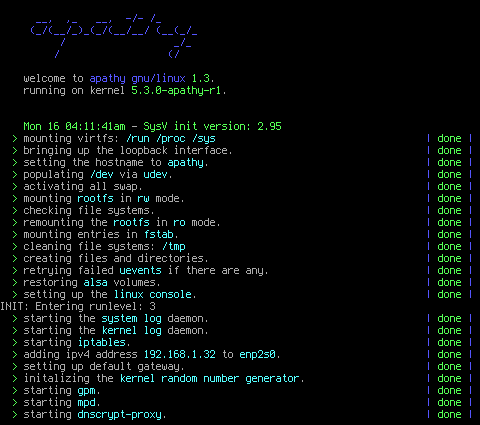
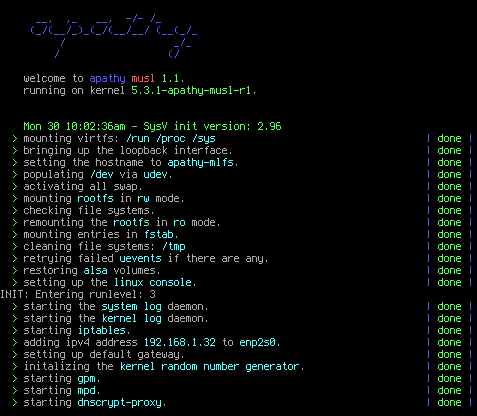
upd: replace assets and readme with apathy-musl.

Changed region(s): [[0.0, 0.2812, 0.6164, 1.0], [0.8805, 0.3125, 0.9979, 1.0], [0.0294, 0.0312, 0.4696, 0.25]]

diff --git a/README.md b/README.md
@@ -1,66 +1,49 @@
-## apathy gnu/linux 1.3
-apathy *(formerly known as mssLinux)* is a pure 64 bit gnu+linux distribution aiming to be minimalistic while not crippling the user's ability to smoothly do their computing. it was initially built from scratch by following the *linux from scratch 8.4* book as its base but as of apathy 1.3, the base is matching to `lfs-9.0-rc1` except for `glibc` and `openssl`.
+### apathy-musl 1.1
+*apathy musl* is a pure 64 bit linux distribution built from scratch, using the `musl libc` instead of the traditional `glibc`.
 
 ![yes](assets/fetch.png)
 
-this is the fourth *release* of apathy, 1.0 being my first attempt to build an lfs system. it was fairly *bloated* as i didn't fine tune dependencies so i wanted to give it a second try, which gave birth to 1.1. 1.1 was supposed to be tidier, more minimalistic and also have multilib support for `steam` and `wine` but it got out of hand fairly quick due to me not being experienced enough with a multilib toolchain so that idea got scrapped, resulting in 1.2. with the release of *linux from scratch 9.0-rc1*, i've bumped up apathy to 1.3 and rebuilt the base to match the versions in `lfs-9.0-rc1`. 
+extensively detailed documentatiton about building the base system can be found at [apathy-mlfs](https://github.com/mssx86/apathy-mlfs) repo. once you're finished with the installation of the base system, the rest of the system can be built with the help of `void` and `alpine`/`adelie` repositories. also, there are toolchain tarballs if one wants to jump straight into building the base without going through the building steps of cross-toolchain and the toolchain.
 
-next to writing init scripts using `start-stop-daemon` from debian, i also rewrote the init scripts provided by the lfs/blfs books. made some functional changes, changes in style and removed bashisms so apathy's init system is not bound to bash in order to work.
+this is the second release of apathy-musl. 1.0 being built by following documentation written by *dslm4515* which had old packages, sloppy/prone to fail writing and differences in choice of software. after writing my own build guide with [apathy-mlfs](https://github.com/mssx86/apathy-mlfs), i have continued building the system, resulting in this repo.
 
 ![yes](assets/init.png)
-
-because it is intended to be the way i document my progress and keep everything in one place, this repository does not include a build script or an installer but if desired, following the lfs 8.4 book and then building the software listed under `pkg-management/packages.md` in the same order using the configs and patches under `pkg-management/build-configs` would result in an exact copy of this system.
 
 #### overview
 ```
 toolchain:
- * gcc 9.2.0 (c,c++)
- * binutils-2.32, glibc-2.29
- * linux 5.0 headers (deblobbed)
+ * gcc 9.2.0 (c,c++) + isl-0.19 + argp-standalone-1.3
+ * binutils 2.32, linux 5.2 headers
+ * musl libc 1.1.23, musl-fts-1.2.7, musl-obstack-1.1
+ * gcompat-0.4.0 + libucontext-0.1.3 + adelie shimmy
 
 core userland:
  * util-linux-2.34, coreutils 8.31
+ * busybox-1.31.0, defconfig (static)
  * sysklogd 1.5.1, sysvinit 2.96
- * eudev 3.2.8
+ * eudev 3.2.8, openbsd doas
 
 languages:
- * python 2.7.15/3.7.2
- * ruby 2.6.4p104-libre
- * lua 5.3.5, luajit 2.0.5
- * perl-5.28.1
+ * python 2.7.16, 3.7.4
+ * lua 5.3.5, 5.1.5
+ * perl-5.30
 
 video/audio:
- * xorg (x11r7), mesa 19.2.0-rc4
- * alsa 1.1.8
+ * xorg (x11r7), mesa 19.1.7
+ * alsa 1.1.9
 
 shells:
- * yash 2.49, ash (busybox 1.31.0)
+ * yash 2.49 (/bin/sh: busybox 1.31.0 ash)
 ```
 
-#### patches used in the apathy kernel:
+#### about proprietary software under apathy-musl
+apathy-musl in its current state is completely free software, including the kernel and the firmware.
+
+#### current package count and total system size
 ```
- * 5.3-deblob-gnu.patch				(fsf-la)
- * 5.3-bmq-100.patch				(alfred chen)
- * 5.3-cc_optimize_harder.patch			(zen-kernel)
- * 5.3-enable-link-security-by-default.patch	(gentoo-sources)
- * 5.3-fix-leaking-memory-tty.patch		(gen zhang)
- * 5.3-graysky2-gcc-9.1-cpu-opt.patch		(graysky2)
- * 5.3-ohgodohfuck-panic.patch			(mssx86)
- * 5.3-paolo-lucjan-bfq.patch			(paolo + lucjan)
- * 5.3-zen-futex-packports.patch		(zen-kernel)
- * 5.3-zen-tune.patch				(zen-kernel)
- * various clearlinux opt. patches		(intel)
-```
+ ~ % pkg
 
-#### about proprietary software under apathy
-based on what i've filtered off of `parabola gnu/linux`' `blacklist.txt` multiple times, apathy in its current state is all free software, including the kernel and the firmware. next to running only free software, it also has libreified versions of `unzip`, `ruby` and `sdl`.
-
-#### current package count and total system size:
-```
-~ > pkg
-
- * total partition size	: 1894.02mib
- * local package count	: 365
- * removed packages	: 69
-
+ > total partition size	: 1657.14mib
+ > local package count	: 345
+ > removed packages	: 4
 ```
